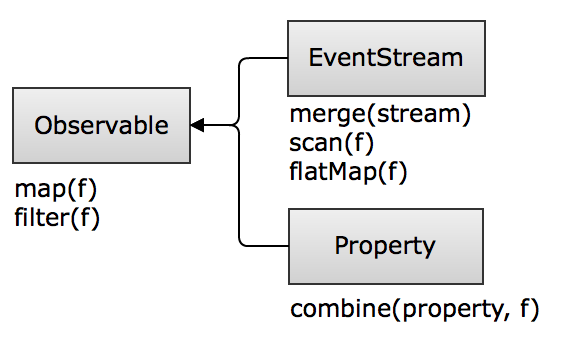
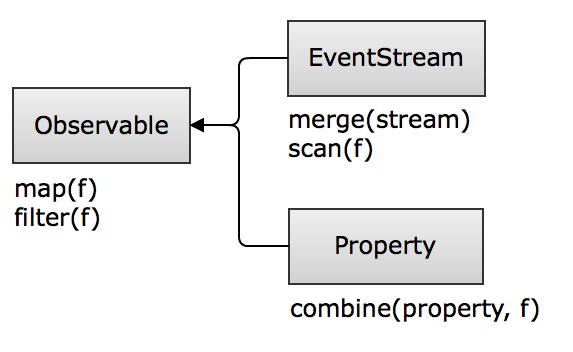
tune images

Changed region(s): [[0.5044, 0.2812, 0.8307, 0.5312]]

diff --git a/slides.md b/slides.md
@@ -1,6 +1,6 @@
 !SLIDE bullets
 # FRP / bacon.js #
-* juha paananen @raimohanska
+* juha.paananen@reaktor.fi
 
 !SLIDE code
 
@@ -18,11 +18,11 @@
 
 !SLIDE bullets incremental
 #fp - lists
-* filter, map, fold, zip, flatMap, foreach
+* filter, map, fold, zip 
 
 !SLIDE bullets incremental
 #frp - events
-* filter, map, scan, merge, combine, flatMap
+* filter, map, scan, merge, combine
 
 !SLIDE bullets incremental
 #bacon.js
@@ -60,9 +60,6 @@
 
 !SLIDE center transition=fade
 ![observable](images/observable-hierarchy.png)
-
-!SLIDE center
-![observable](images/eventstream-to-property.png)
 
 !SLIDE center
 ![regform-ui](images/registration-form-ui.png)
